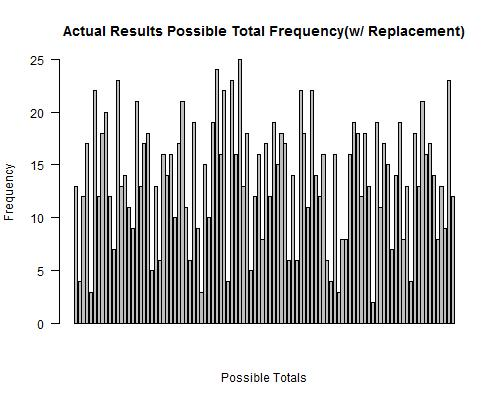
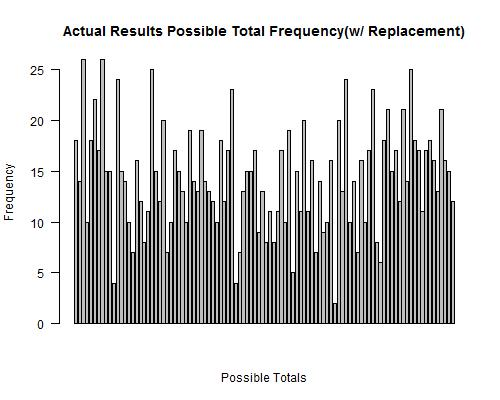
Negative Binomial

diff --git a/src/Controller/RConnector.java b/src/Controller/RConnector.java
@@ -50,7 +50,7 @@ import java.io.FileNotFoundException;
        if(Card.experiment == 0)
         exp = c.eval("dbinom("+Math.round(prob*Card.nTrials)+","+Card.nTrials+","+prob+")");
        else
-           exp = c.eval("dnbinom("+(Card.nTrials-Card.dtWithRep)+","+Card.dtWithRep+","+prob+")");
+           exp = c.eval("dnbinom("+(Card.nTrials-Math.round(prob*Card.nTrials))+","+Math.round(prob*Card.nTrials)+","+prob+")");
        result = exp.asDouble();
      } else {  
        System.out.println("Rserve could not connect");  
@@ -60,7 +60,28 @@ import java.io.FileNotFoundException;
      return result;
    }  
    
-   public static double computeActualProb(int success, int failure, double prob)throws RserveException, REXPMismatchException, FileNotFoundException, IOException {  
+   public static double computeActualProbBinom(double prob)throws RserveException, REXPMismatchException, FileNotFoundException, IOException {  
+     RConnection c = new RConnection("localhost", 6311);  
+     double result = 0.0;
+     int[] temp = new int[Card.drawCards];
+     if(c.isConnected()) {  
+       System.out.println("Connected to RServe.");  
+       org.rosuda.REngine.REXP x0 = c.eval("R.version.string");  
+       System.out.println(x0.asString()); 
+       REXP exp = null;
+         System.out.println(Card.idealProbability);
+         System.out.println(Math.round(Card.idealProbability*Card.nTrials));
+        exp = c.eval("dbinom("+Card.dtWithRep+","+Card.nTrials+","+prob+")");
+       result = exp.asDouble();
+     } else {  
+       System.out.println("Rserve could not connect");  
+     }  
+     c.close();  
+     System.out.println("Session Closed");  
+     return result;
+   }
+   
+   public static double computeActualProb(double prob)throws RserveException, REXPMismatchException, FileNotFoundException, IOException {  
      RConnection c = new RConnection("localhost", 6311);  
      double result = 0.0;
      int[] temp = new int[Card.drawCards];
@@ -74,7 +95,7 @@ import java.io.FileNotFoundException;
        if(Card.experiment == 0)
         exp = c.eval("dbinom("+Card.dtWithRep+","+Card.nTrials+","+prob+")");
        else
-           exp = c.eval("dnbinom("+failure+","+success+","+prob+")");
+           exp = c.eval("dnbinom("+(Card.nTrials-Card.dtWithRep)+","+Card.dtWithRep+","+prob+")");
        result = exp.asDouble();
      } else {  
        System.out.println("Rserve could not connect");  

diff --git a/src/Model/Card.java b/src/Model/Card.java
@@ -22,6 +22,7 @@ public class Card {
     public static int multinomType = 0;
     public static double idealProbability = 0.0;
     public static double actualProbability = 0.0;
+    public static double temp = 0.0;
     private String name;
     private int value;
     private int suit;//0-clover, 1-spade, 2-heart, 3-diamond
@@ -427,6 +428,8 @@ public class Card {
                 }
                 break;
         }
+        temp = numerator/denominator;
+        System.out.println(temp);
         try{
             idealProbability = RConnector.computeIdealProb(numerator/denominator);
         }catch(Exception e){
@@ -440,7 +443,9 @@ public class Card {
         
         if(experiment == 0)
             return ((double)dtWithRep)/(nTrials);
-        int success = 0;
+        /*else
+            return ((double)1-((double)(nTrials-dtWithRep)/nTrials));*/
+        /*int success = 0;
         int failure = 0;
         for(int i=0; i<resultSum.length; i++){
             if(resultSum[i] == desiredTotal && success<Card.dtWithRep){
@@ -448,9 +453,9 @@ public class Card {
             }
             else if(success<Card.dtWithRep)
                 failure++;
-        }
+        }*/
         try{
-            return RConnector.computeActualProb(success, failure, idealProbability);
+            return RConnector.computeActualProb(temp);
         }catch(Exception e){
             e.printStackTrace();
         }
@@ -458,7 +463,7 @@ public class Card {
     }
     
     public static double computeActualProbWithoutRep(){
-        return ((double)dtWithoutRep)/(nTrials);
+        return ((double)1-((double)dtWithoutRep)/(nTrials));
     }
     
 }
